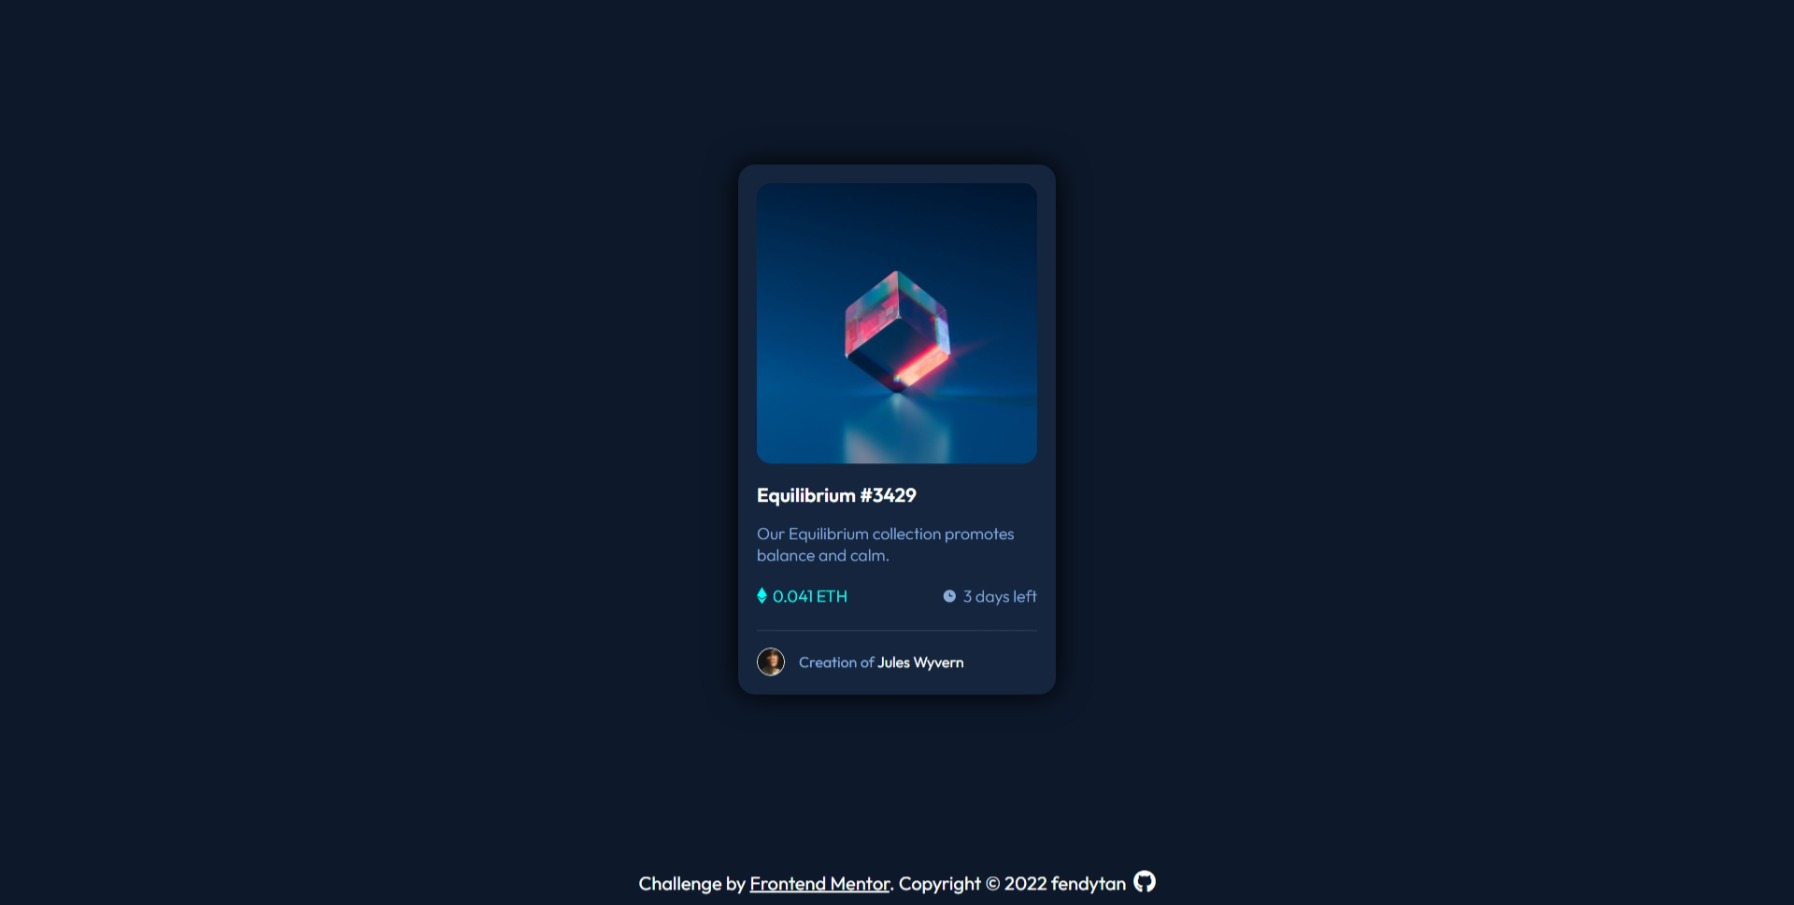
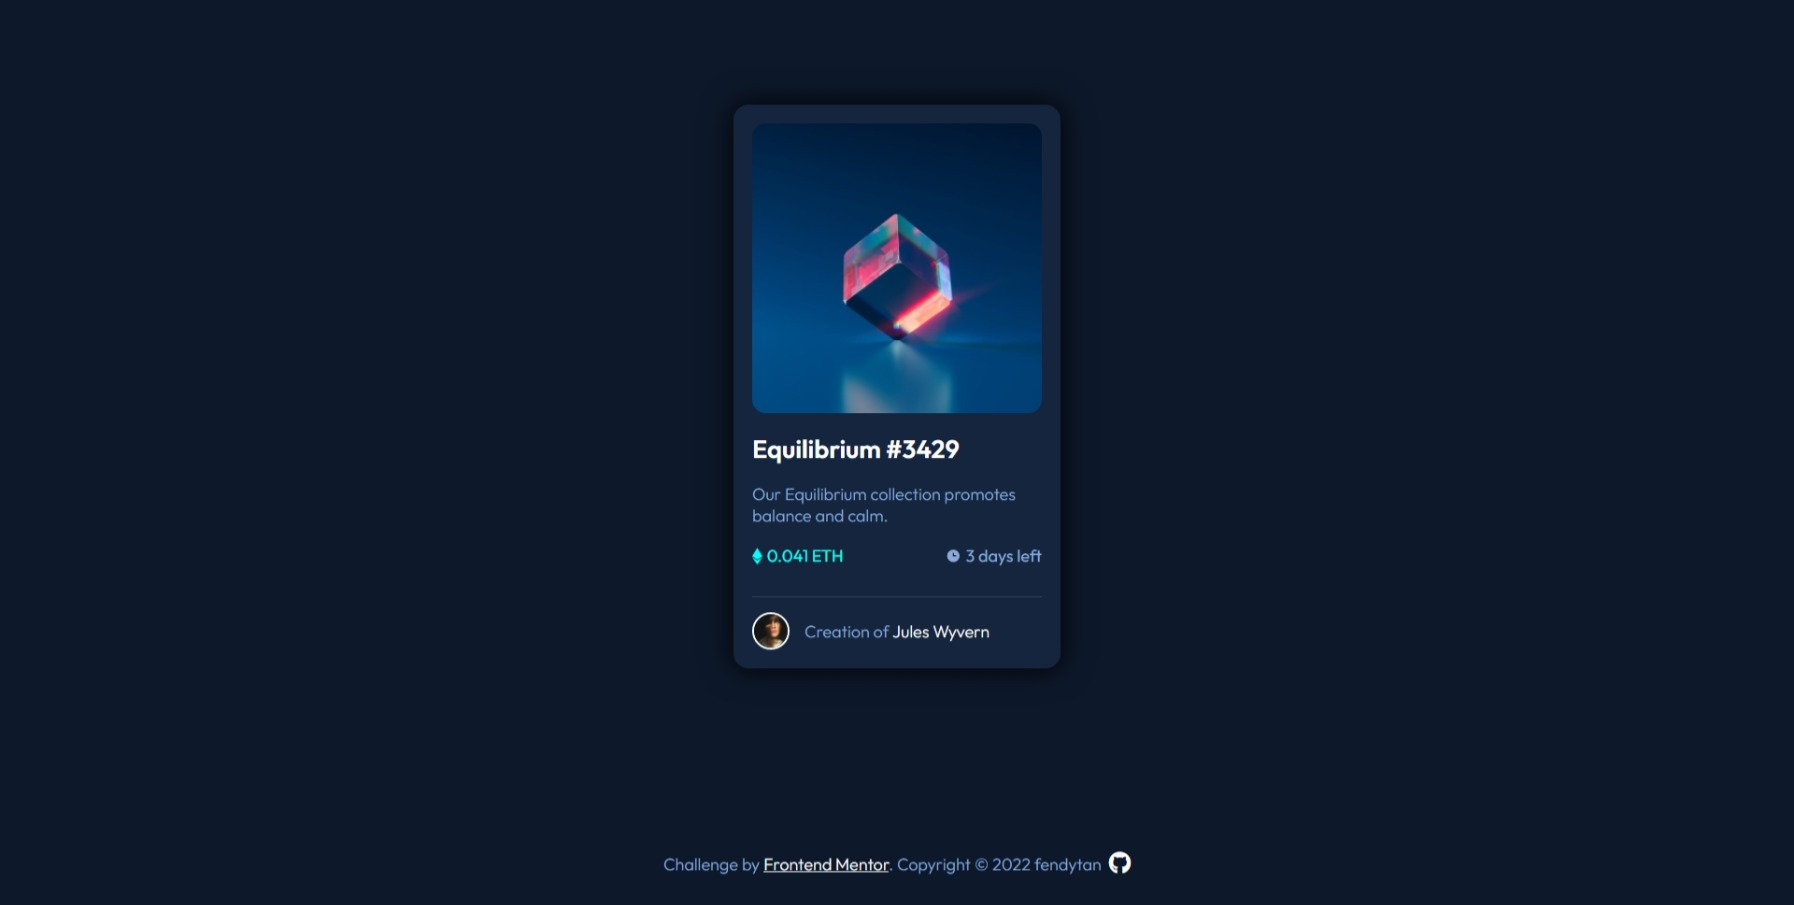
revised the css

Changed region(s): [[0.4058, 0.1238, 0.5931, 0.7735], [0.3434, 0.9282, 0.6555, 0.9901]]

diff --git a/style.css b/style.css
@@ -12,143 +12,148 @@
 *,
 *::before,
 *::after {
+  margin: 0;
+  padding: 0;
   box-sizing: border-box;
 }
 
-body {
-  margin: 0;
-  padding: 0;
-  background-color: var(--main-bg);
-  font-family: "Outfit", sans-serif;
-  height: 100vh;
-  display: flex;
-  flex-direction: column;
+img {
+  max-width: 100%;
 }
 
-.container {
-  max-width: 360px;
-  margin: 0 auto;
-  margin-top: auto;
+ul {
+  list-style-type: none;
 }
 
-.card {
-  margin: 10px;
-  padding: 20px;
-  background-color: var(--card-bg);
-  border-radius: 18px;
-  box-shadow: 0px 0px 30px 5px rgba(0, 0, 0, 0.75);
-}
-
-.img-top {
-  position: relative;
-}
-
-.img-top img {
-  border-radius: 15px;
-  width: 100%;
-  display: block;
-}
-
-.img-overlay {
-  position: absolute;
-  left: 0;
-  top: 0;
-  height: 100%;
-  width: 100%;
-  background-color: var(--cyan);
-  border-radius: 15px;
-  opacity: 0.4;
-  display: none;
-}
-
-.img-overlay img {
-  position: absolute;
-  width: 25%;
-  top: 50%;
-  left: 50%;
-  transform: translate(-50%, -50%);
-}
-
-.img-top:hover .img-overlay {
-  display: block;
-}
-
-.text > a {
-  color: var(--white);
-  text-decoration: none;
-  font-weight: 600;
-  font-size: 1.3em;
-  padding-top: 20px;
-  display: inline-block;
-}
-
-.text > a:hover,
-.person a:hover {
-  color: var(--cyan);
-}
-
-.text p {
-  color: var(--soft-blue);
-  font-size: 1.1em;
+p {
   font-weight: 300;
 }
 
-.stats {
-  margin-top: -15px;
+body {
+  font-family: "Outfit", sans-serif;
+  background-color: var(--main-bg);
+  font-size: 18px;
+  padding: 1.25rem;
+
+  height: 100vh;
   display: flex;
+  flex-direction: column;
   justify-content: space-between;
-  align-items: center;
-  font-size: 1em;
 }
 
-.left,
-.right {
-  display: flex;
-  align-items: center;
-  gap: 6px;
+.container {
+  background-color: var(--card-bg);
+  padding: 1.25rem;
+  border-radius: 1rem;
+  max-width: 350px;
+  box-shadow: 0px 0px 30px 5px rgba(0, 0, 0, 0.75);
 }
 
-.left p {
+.container img {
+  border-radius: 0.9rem;
+}
+
+.container .img-top {
+  position: relative;
+}
+
+.container .img-top div {
+  position: absolute;
+  background-color: var(--cyan);
+  width: 100%;
+  height: calc(100% - 4px);
+  top: 0;
+  opacity: 0;
+  border-radius: 0.9rem;
+  transition: opacity 0.3s ease-in-out;
+}
+
+.container .img-top div:hover {
+  opacity: 50%;
+  cursor: pointer;
+}
+
+.container .img-top div img {
+  position: absolute;
+  left: 50%;
+  top: 50%;
+  transform: translate(-50%, -50%);
+}
+
+.container h2 {
+  color: var(--white);
+  text-decoration: none;
+  margin: 1rem 0.5rem 0.5rem 0;
+  font-weight: 600;
+  margin-bottom: 1.25rem;
+}
+
+.container h2:hover {
+  cursor: pointer;
   color: var(--cyan);
 }
 
-.line {
-  margin: 8px 0;
-  height: 1px;
-  background: var(--line);
-}
-
-.person {
+.container p {
   color: var(--soft-blue);
+  margin-bottom: 1.25rem;
 }
 
-.creator {
+.container ul {
   display: flex;
   align-items: center;
-  padding-top: 10px;
-  gap: 15px;
+  justify-content: space-between;
+  border-bottom: 1px solid var(--line);
+  padding-bottom: 2rem;
 }
 
-.creator img {
-  height: 30px;
-  width: auto;
+.container ul li {
+  color: var(--soft-blue);
+  display: flex;
+  align-items: center;
+}
+
+.container ul li:first-child {
+  color: var(--cyan);
+}
+
+.container ul li img {
+  margin-right: 0.3rem;
+}
+
+.container .avatar {
+  display: flex;
+  align-items: center;
+  justify-content: start;
+  margin-top: 1rem;
+}
+
+.container .avatar img {
+  width: 2.5rem;
+  border: 2px solid var(--white);
   border-radius: 50%;
-  border: 1px solid var(--white);
+  margin-right: 1rem;
 }
 
-.person a {
+.container .avatar .avatar-text {
+  color: var(--soft-blue);
+  font-weight: 300;
+}
+
+.container .avatar .avatar-text a {
   color: var(--white);
   text-decoration: none;
+}
+
+.container .avatar .avatar-text a:hover {
+  color: var(--cyan);
 }
 
 .footer {
   height: 50px;
-  color: var(--white);
+  color: var(--soft-blue);
   display: flex;
   align-items: center;
   justify-content: center;
-  font-size: 20px;
-  gap: 8px;
   margin-top: auto;
 }
 
@@ -160,8 +165,16 @@ body {
   color: var(--white);
   font-size: 24px;
   transition: transform 0.3s ease-in-out;
+  margin-left: 8px;
 }
 
 .fa-github:hover {
   transform: rotate(360deg) scale(1.2);
+}
+
+@media (min-width: 500px) {
+  .container {
+    width: 450px;
+    margin: auto auto;
+  }
 }

diff --git a/index.html b/index.html
@@ -10,33 +10,25 @@
   </head>
   <body>
     <main class="container">
-      <div class="card">
-        <div class="img-top">
-          <img src="images/image-equilibrium.jpg" alt="" />
-          <div class="img-overlay">
-            <img src="images/icon-view.svg" alt="" />
-          </div>
-        </div>
-        <div class="text">
-          <a href="#" class="nft-name">Equilibrium #3429</a>
-          <p>Our Equilibrium collection promotes balance and calm.</p>
-          <div class="stats">
-            <div class="left">
-              <img src="images/icon-ethereum.svg" alt="NFT Icon" />
-              <p>0.041 ETH</p>
-            </div>
-            <div class="right">
-              <img src="images/icon-clock.svg" alt="Clock Icon" />
-              <p>3 days left</p>
-            </div>
-          </div>
-          <div class="line"></div>
-          <div class="creator">
-            <img src="images/image-avatar.png" alt="" />
-            <div class="person">Creation of <a href="#">Jules Wyvern</a></div>
-          </div>
-        </div>
-      </div>
+      <article class="img-top">
+        <img src="./images/image-equilibrium.jpg" alt="" />
+        <div><img src="./images/icon-view.svg" alt="" /></div>
+      </article>
+
+      <article>
+        <h2>Equilibrium #3429</h2>
+        <p>Our Equilibrium collection promotes balance and calm.</p>
+
+        <ul>
+          <li><img src="./images/icon-ethereum.svg" alt="" /> 0.041 ETH</li>
+          <li><img src="./images/icon-clock.svg" alt="" /> 3 days left</li>
+        </ul>
+      </article>
+
+      <article class="avatar">
+        <img src="./images/image-avatar.png" alt="" />
+        <div class="avatar-text">Creation of <a href="#">Jules Wyvern</a></div>
+      </article>
     </main>
 
     <footer class="footer">
